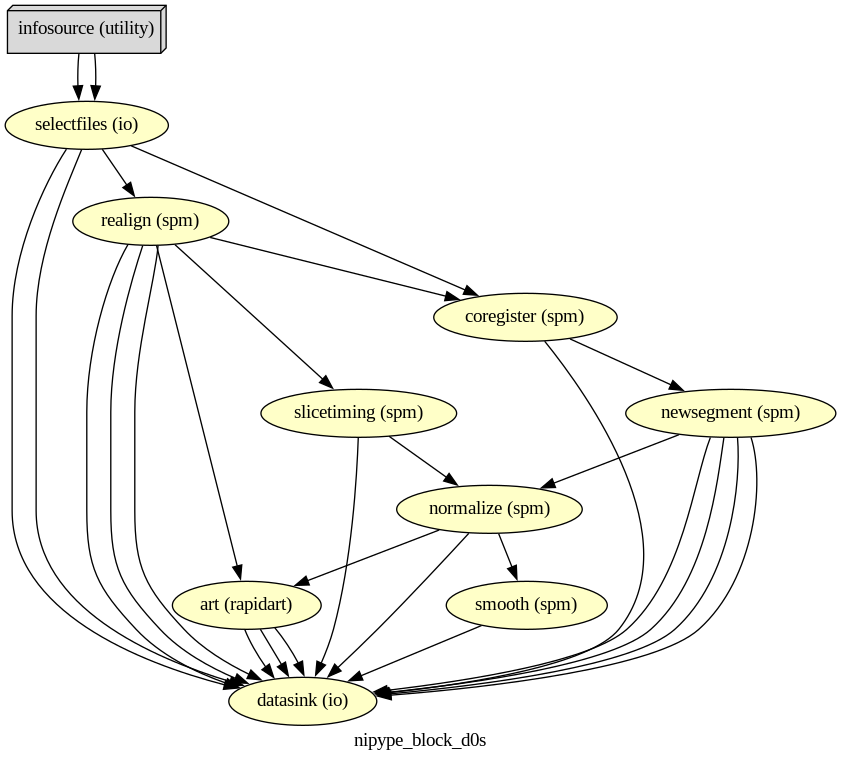
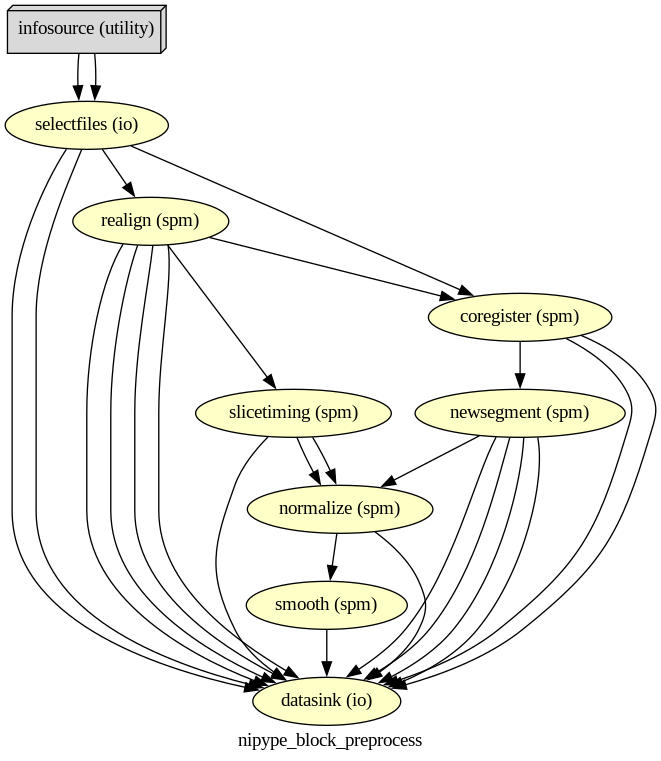
before auto workflow

Changed region(s): [[0.0, 0.0, 0.9985, 0.9974], [0.5144, 0.3022, 0.5446, 0.3325]]

diff --git a/src/Nipype/nipype_spm_preproc.py b/src/Nipype/nipype_spm_preproc.py
@@ -3,10 +3,6 @@
 
 # ## Preprocessing
 
-# In[1]:
-
-
-from nilearn import plotting
 import os
 import json
 from nipype.interfaces import fsl 
@@ -20,20 +16,14 @@ from nipype import Workflow, Node
 
 # necessary to let nipype know about matlab path
 
-
-
 spm.SPMCommand.set_mlab_paths(paths=os.path.abspath(os.path.join(os.environ['HOME'], 'Documents/MATLAB/spm12/')), matlab_cmd='/soft/matlab_hd/R2020b/bin/glnxa64/MATLAB -nodesktop -nosplash')
-
 
 
 mlab.MatlabCommand.set_default_matlab_cmd("/soft/matlab_hd/R2020b/bin/glnxa64/MATLAB  -nodesktop -nosplash")
 mlab.MatlabCommand.set_default_paths(os.path.abspath(os.path.join(os.environ['HOME'], 'Documents/MATLAB/spm12/')))
 
 
-
-
 # spm.SPMCommand().version
-
 
 
 
@@ -41,10 +31,7 @@ fsl.FSLCommand.set_default_output_type('NIFTI')
 
 
 
-
-
 base_dir = os.path.join(os.environ['HOME'], 'spmbasics/data/')
-
 
 
 
@@ -58,7 +45,7 @@ subject_id = ['01']
 
 task_id = ['auditory']
 
-
+# task_id = ['auditory']
 # TR of functional images
 with open(os.path.join(base_dir, 'MoAEpilot/task-auditory_bold.json'), 'rt') as fp:
     task_info = json.load(fp)
@@ -108,6 +95,7 @@ realigner.inputs.out_prefix = 'r'
 
 
 
+
 slicetiming = Node(interface=SliceTiming(), name = 'slicetiming')
 slicetiming.inputs.num_slices = 64
 slicetiming.inputs.time_repetition = 7.
@@ -115,6 +103,9 @@ slicetiming.inputs.time_acquisition = 6.8906
 slicetiming.inputs.slice_order = list(range(64,0,-1))
 slicetiming.inputs.ref_slice = 32
 slicetiming.inputs.out_prefix = 'a'
+
+
+# https://github.com/nipy/nipype/issues/2697 check this
 
 
 coregister = Node(Coregister(), name="coregister")
@@ -130,7 +121,6 @@ coregister.inputs.out_prefix = 'c'
 tpm_path = os.path.abspath(os.path.join(os.environ['HOME'], 'Documents/MATLAB/spm12/tpm/', 'TPM.nii'))
 
 
-
 segment =  Node(NewSegment(), name="newsegment")
 segment.inputs.affine_regularization = 'mni'
 segment.inputs.channel_info = (0.001, 60, (False, True)) #save bias corrected map
@@ -144,6 +134,7 @@ segment.inputs.tissues = [tissue1, tissue2, tissue3, tissue4, tissue5, tissue6]
 segment.inputs.warping_regularization = [0, 0.001, 0.5, 0.05, 0.2]
 segment.inputs.sampling_distance = 3
 segment.inputs.write_deformation_fields = [False, True] 
+
 
 
 
@@ -175,15 +166,6 @@ art.inputs.bound_by_brainmask = True
 art.inputs.parameter_source = 'SPM'
 art.inputs.plot_type='png'
 
-
-def get_vox_dims(volume):
-    import nibabel as nb
-    if isinstance(volume, list):
-        volume = volume[0]
-    nii = nb.load(volume)
-    hdr = nii.header
-    voxdims = hdr.get_zooms()
-    return [float(voxdims[0]), float(voxdims[1]), float(voxdims[2])]
 
 
 block_preprocess = Workflow(name='nipype_block_preprocess')
@@ -234,5 +216,11 @@ block_preprocess.write_graph(graph2use='flat', format='png', dotfilename='flat_b
 
 
 
+
 block_preprocess.run('MultiProc', plugin_args={'n_procs': 4})
+
+
+
+
+
 
